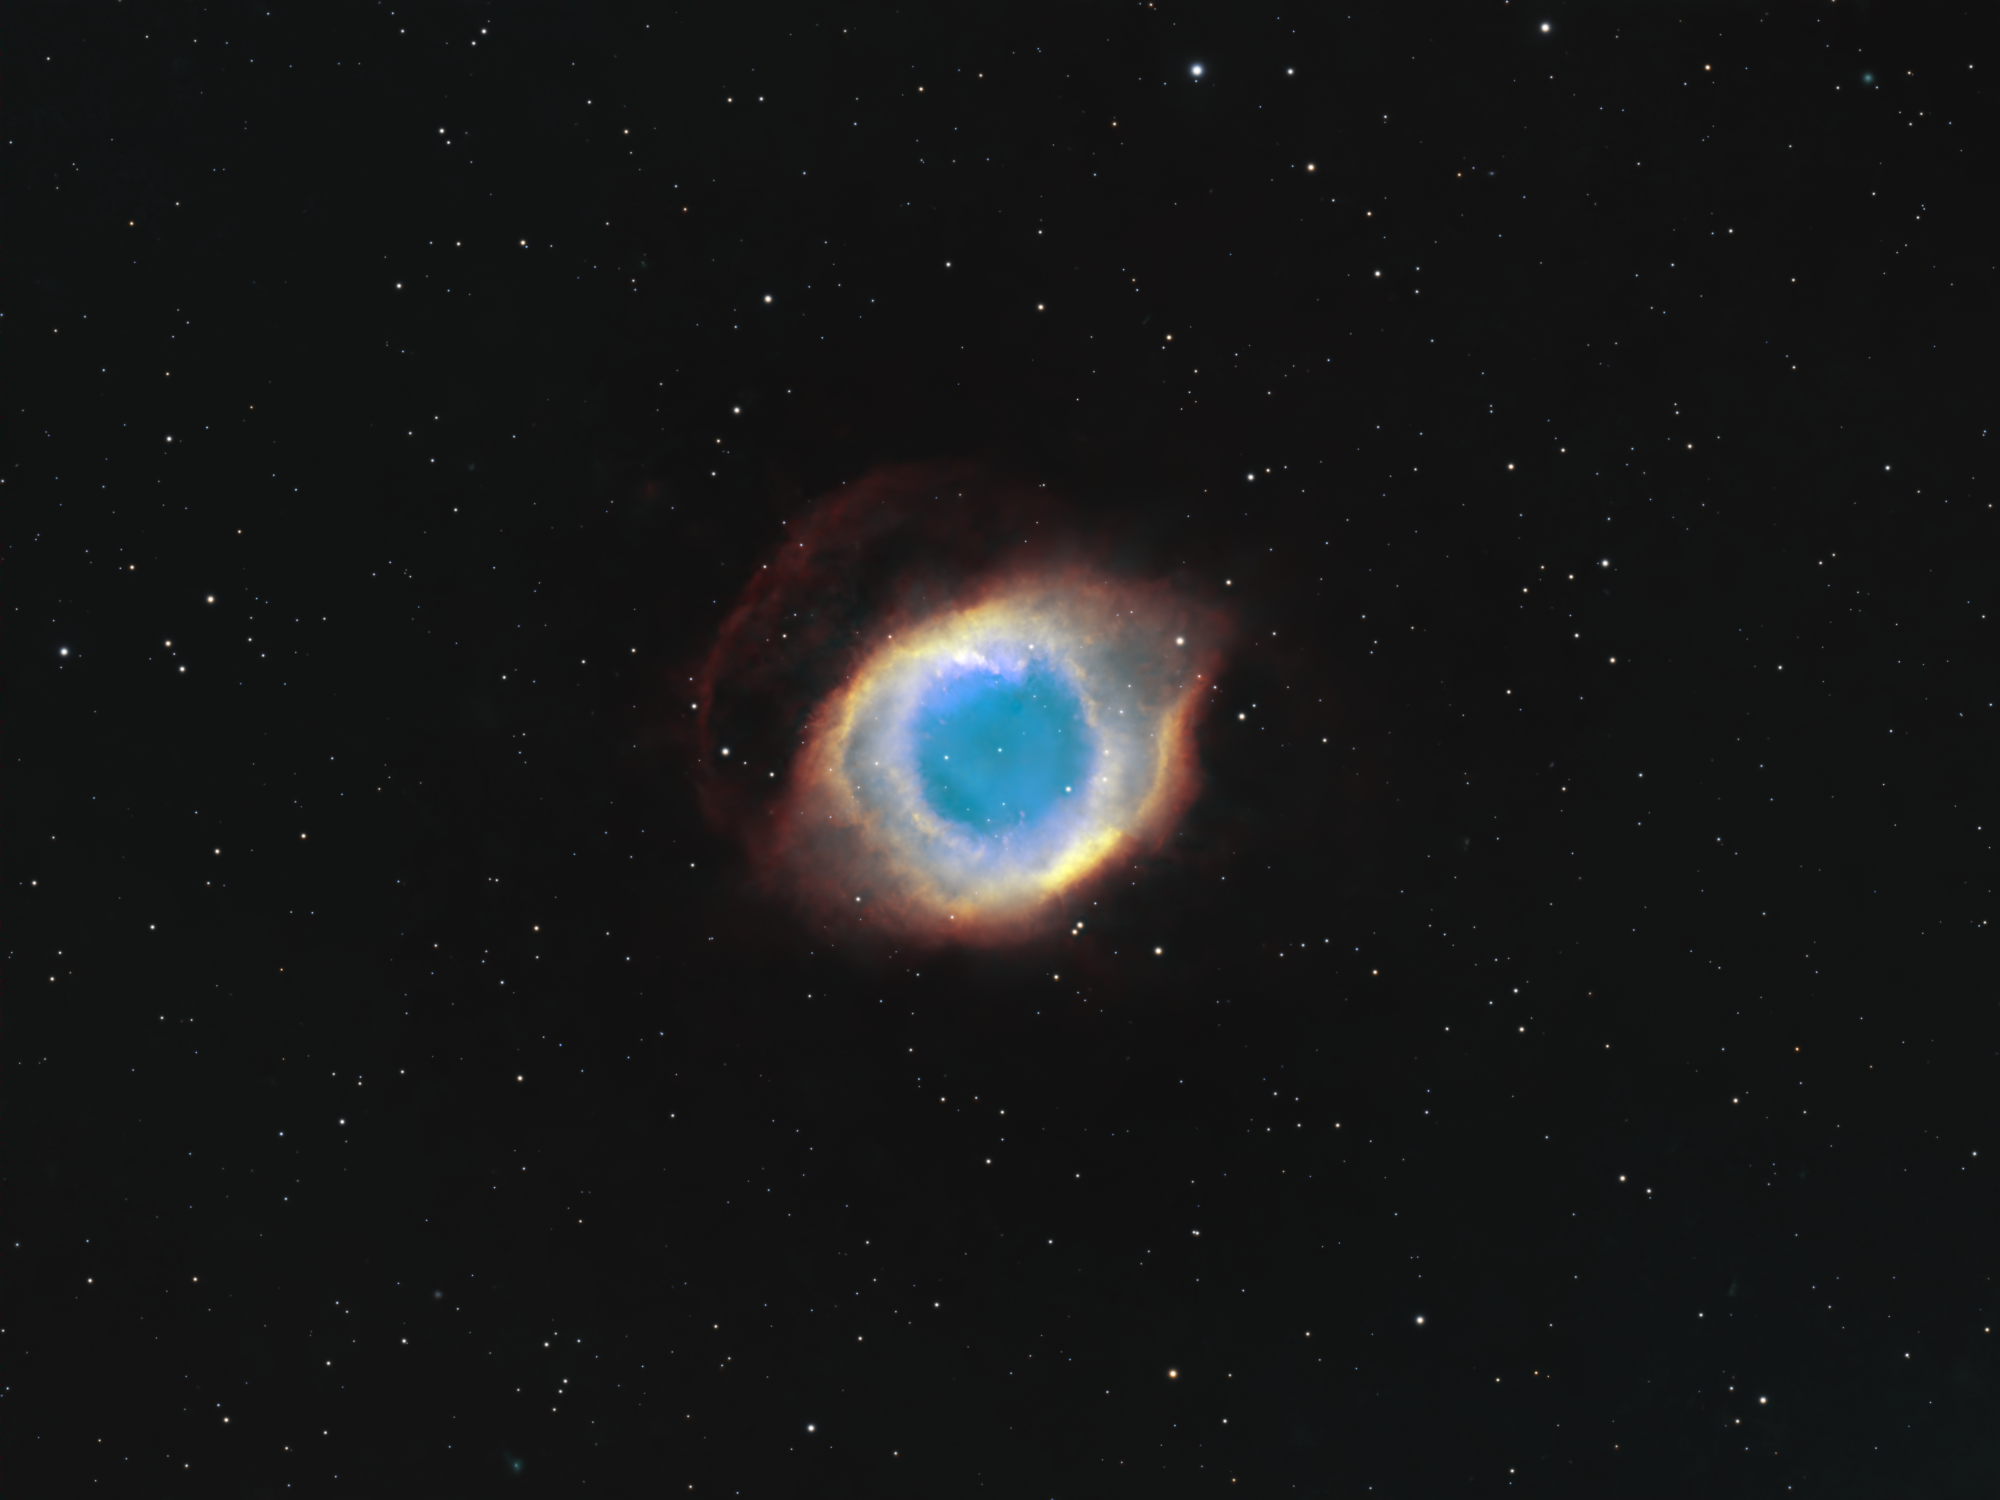
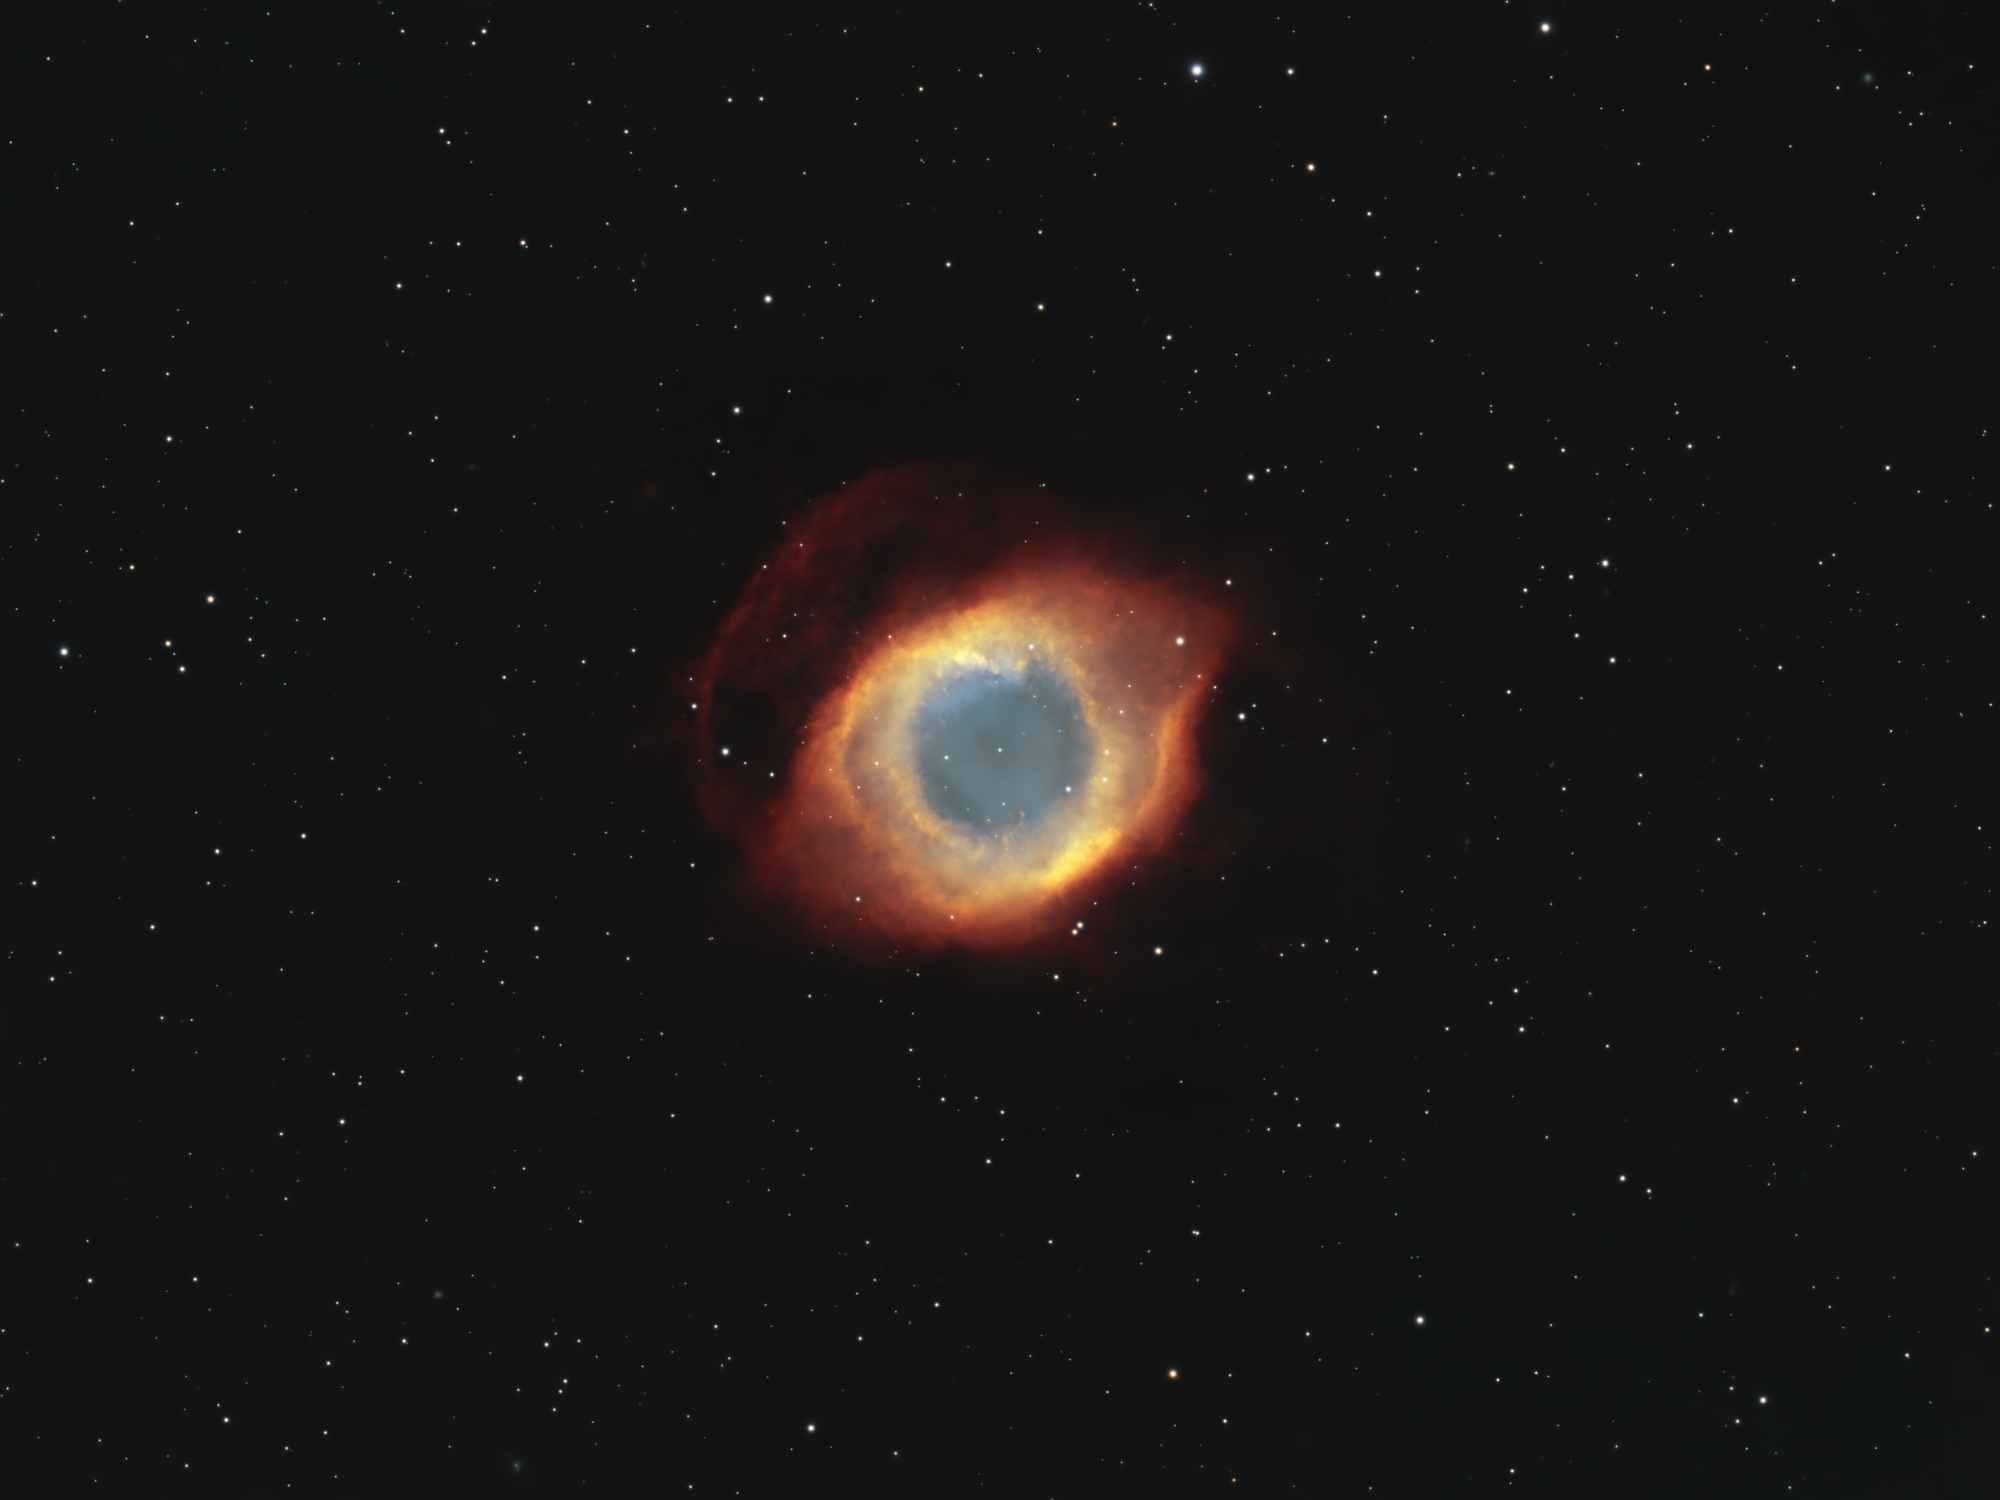
refined helix

Changed region(s): [[0.403, 0.368, 0.62, 0.6133]]

diff --git a/2024-helix/index.md b/2024-helix/index.md
@@ -29,30 +29,33 @@ rings surrounding the nebula.
 
 I ended this processing phase stretching the image with Seti Astro's
 **Statistical Stretch** selecting the unlinked mode. Becase the nebula occupies
-a small portion of the frame, I lowered the target median to 0.05.
+a small portion of the frame, I lowered the target median to 0.03.
 
 ## Non-linear post-processing
 
 I used **GHS** to enhance the visibility of the faint loops surrounding the
 nebula. To that aim, I chose a symmetry point in a dark region inside the loop
-and performed a gentle stretch (stretch factor: 1, local intensity: 1.5,
-highlights protection: 0.2). It was fundamental to lower the highlights
+and performed a gentle stretch (stretch factor: 1.12, local intensity: 1.95,
+highlights protection: 0.22). It was fundamental to lower the highlights
 protection value since I didn't want to stretch the bright areas more. I did
 another linear stretch with **GHS** to clip most of the unused dynamic range.
 
 ![starless image](nebula.png){:.aside}
 
-At this point I switched to the Foraxx palette using **PixelMath**. Before
+At this point I wanted to switch to Before switching to the Foraxx palette and
 boosting the colors I created a mask using **RangeSelection**, making sure that
 the mask included at least some of the faintest parts of the loop. I used
-**CurvesTransformation** twice to colorize the image. I also wanted to enhance
-the nebula's structure a little, but neither **UnsharpMask** nor
-**LocalHistogramEqualization** seemed to produce nice results. Therefore,
-violating one of the holy rules of deconvolution, I applied [BlurXTerminator]
-once more disabling stellar sharpening, selecting PSF diameter 5 and boosting
-non-stellar sharpening to 0.6. I removed the mask and ran [NoiseXTerminator]
-once again to smooth out a subtle noise that had surfaced in the background and
-some regions of the nebula.
+**CurvesTransformation** to boost the red channel so as to make sure that the
+red would remain prominent enough in the subsequent steps. I temporarily
+disabled the mask to apply the **PixelMath** formula that converts RGB into the
+Foraxx palette. I reenabled the mask to increase the saturation in two steps
+using **CurvesTransformation**. I also wanted to enhance the nebula's structure
+a little, but neither **UnsharpMask** nor **LocalHistogramEqualization** seemed
+to produce nice results. Therefore, violating one of the holy rules of
+deconvolution, I applied [BlurXTerminator] once more disabling stellar
+sharpening, selecting PSF diameter 5 and boosting non-stellar sharpening to 0.6.
+I removed the mask and ran [NoiseXTerminator] once again to smooth out a subtle
+noise that had surfaced in the background and some regions of the nebula.
 
 I stretched the stars using Seti Astro's **Star Stretch**. I enabled green noise
 removal and increased the stretch amount to 5.5 given that the nebula is
